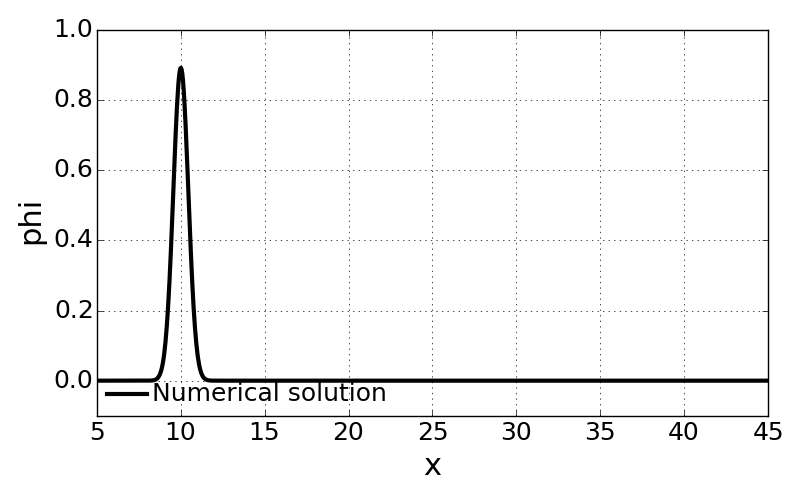
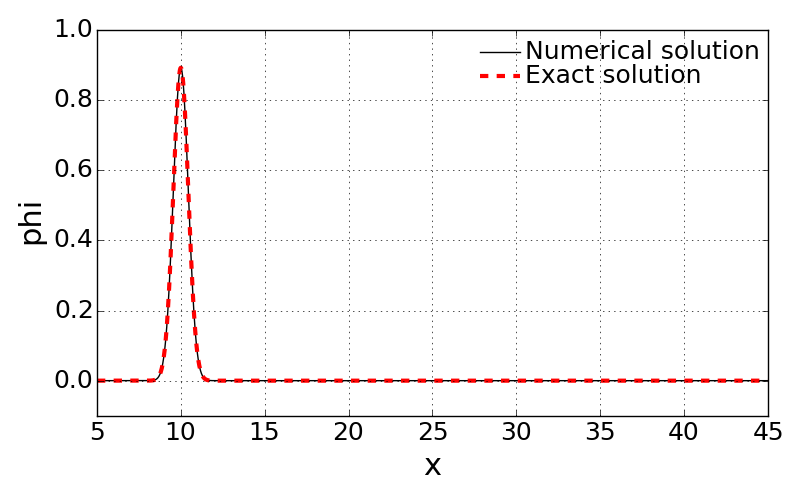
minor change

Changed region(s): [[0.125, 0.12, 0.9688, 0.81], [0.5938, 0.06, 0.9688, 0.18], [0.5938, 0.15, 0.625, 0.18]]

diff --git a/src/functions/timeIntegrate.py b/src/functions/timeIntegrate.py
@@ -57,6 +57,7 @@ def timeIntegrate(inputDict):
    # This will populate inner points of phi vector
    setInitialCondition(imax)
    # plot Initial condition
+   findExactSolution(imax,t)
    plotSolution(t)
    nIter = 0
    while True:
@@ -64,7 +65,7 @@ def timeIntegrate(inputDict):
       # Estimate dt from Courant number
       dt, Pe, Df = computeTimeStep(Cr,imax) 
       t += dt
-      print "nIter = %s" % nIter, ", Time = %s" % t, ", dt = %s" % dt, ", Pe = %s" % Pe, ", Diffusion no = ", Df
+      print "nIter = %s" % nIter, ", Time = %.4f" % t, ", dt = %.6f" % dt, ", Pe = %.3f" % Pe, ", Diffusion no = %.3f" % Df
 
       # IMPLICIT solution: will run only if alphaImp is non-zero.
       # EXPLICIT solution: will run only if alphaImp is zero.
@@ -82,7 +83,9 @@ def timeIntegrate(inputDict):
 
       #print flowVars.exac
       if (t >= tEnd or nIter >= maxIter): break
-      if (nIter % nIterWrite == 0): plotSolution(t)
+      if (nIter % nIterWrite == 0):
+         findExactSolution(imax,t)
+         plotSolution(t)
 
    # EXPLICIT solution: will run only if alphaImp is zero.
    # This will solve following relation:
@@ -94,6 +97,7 @@ def timeIntegrate(inputDict):
    print "## Elapsed time: ", elapsedTime
 
    # plot solution
+   findExactSolution(imax,t)
    plotSolution(t)
 
 

diff --git a/src/functions/post.py b/src/functions/post.py
@@ -4,6 +4,7 @@ import matplotlib.pyplot as plt
 def plotSolution(time):
    x = domainVars.x
    phi = flowVars.phi
+   exac = flowVars.exac
    imax = len(phi)
    pltFile = 'solution_%5.3f.png' % float(time)
    MinX = min(x)
@@ -12,6 +13,7 @@ def plotSolution(time):
    MaxY = 1.0#1.1*max(phi)
 
    p = plt.plot(x,phi, 'k-', label='Numerical solution')
+   p = plt.plot(x,exac, 'r--', label='Exact solution')
    plt.setp(p, linewidth='3.0')
 
    plt.axis([MinX,MaxX, MinY, MaxY])
@@ -28,7 +30,7 @@ def plotSolution(time):
    plt.setp(xlabels, fontsize=18)
    plt.setp(ylabels, fontsize=18)
    plt.legend(
-             loc='lower left',
+             loc='upper right',
              borderpad=0.25,
              handletextpad=0.25,
              borderaxespad=0.25,

diff --git a/src/functions/numericalSolution.py b/src/functions/numericalSolution.py
@@ -33,7 +33,7 @@ def findExactSolution(imax,t):
    for i in range(imax-1):
       if i == 0: continue
       if flowVars.gamma[i] != 0.0:
-         flowVars.exac[i] = 1.0 / np.sqrt(0.4 * np.pi * flowVars.gamma[i] * t) * np.exp( -(domainVars.x[i] - flowVars.U[i] * t) ** 2 / (4.0 * flowVars.gamma[i] * t) )
+         flowVars.exac[i] = 1.0 / np.sqrt(4.0 * np.pi * flowVars.gamma[i] * t) * np.exp( -(domainVars.x[i] - flowVars.U[i] * t) ** 2 / (4.0 * flowVars.gamma[i] * t) )
       elif flowVars.gamma[i] == 0.0:
          flowVars.exac[i] = 1.0 / np.sqrt(0.4 * np.pi) * np.exp( -2.5 * (domainVars.x[i] - flowVars.U[i] * t) ** 2 )
 
